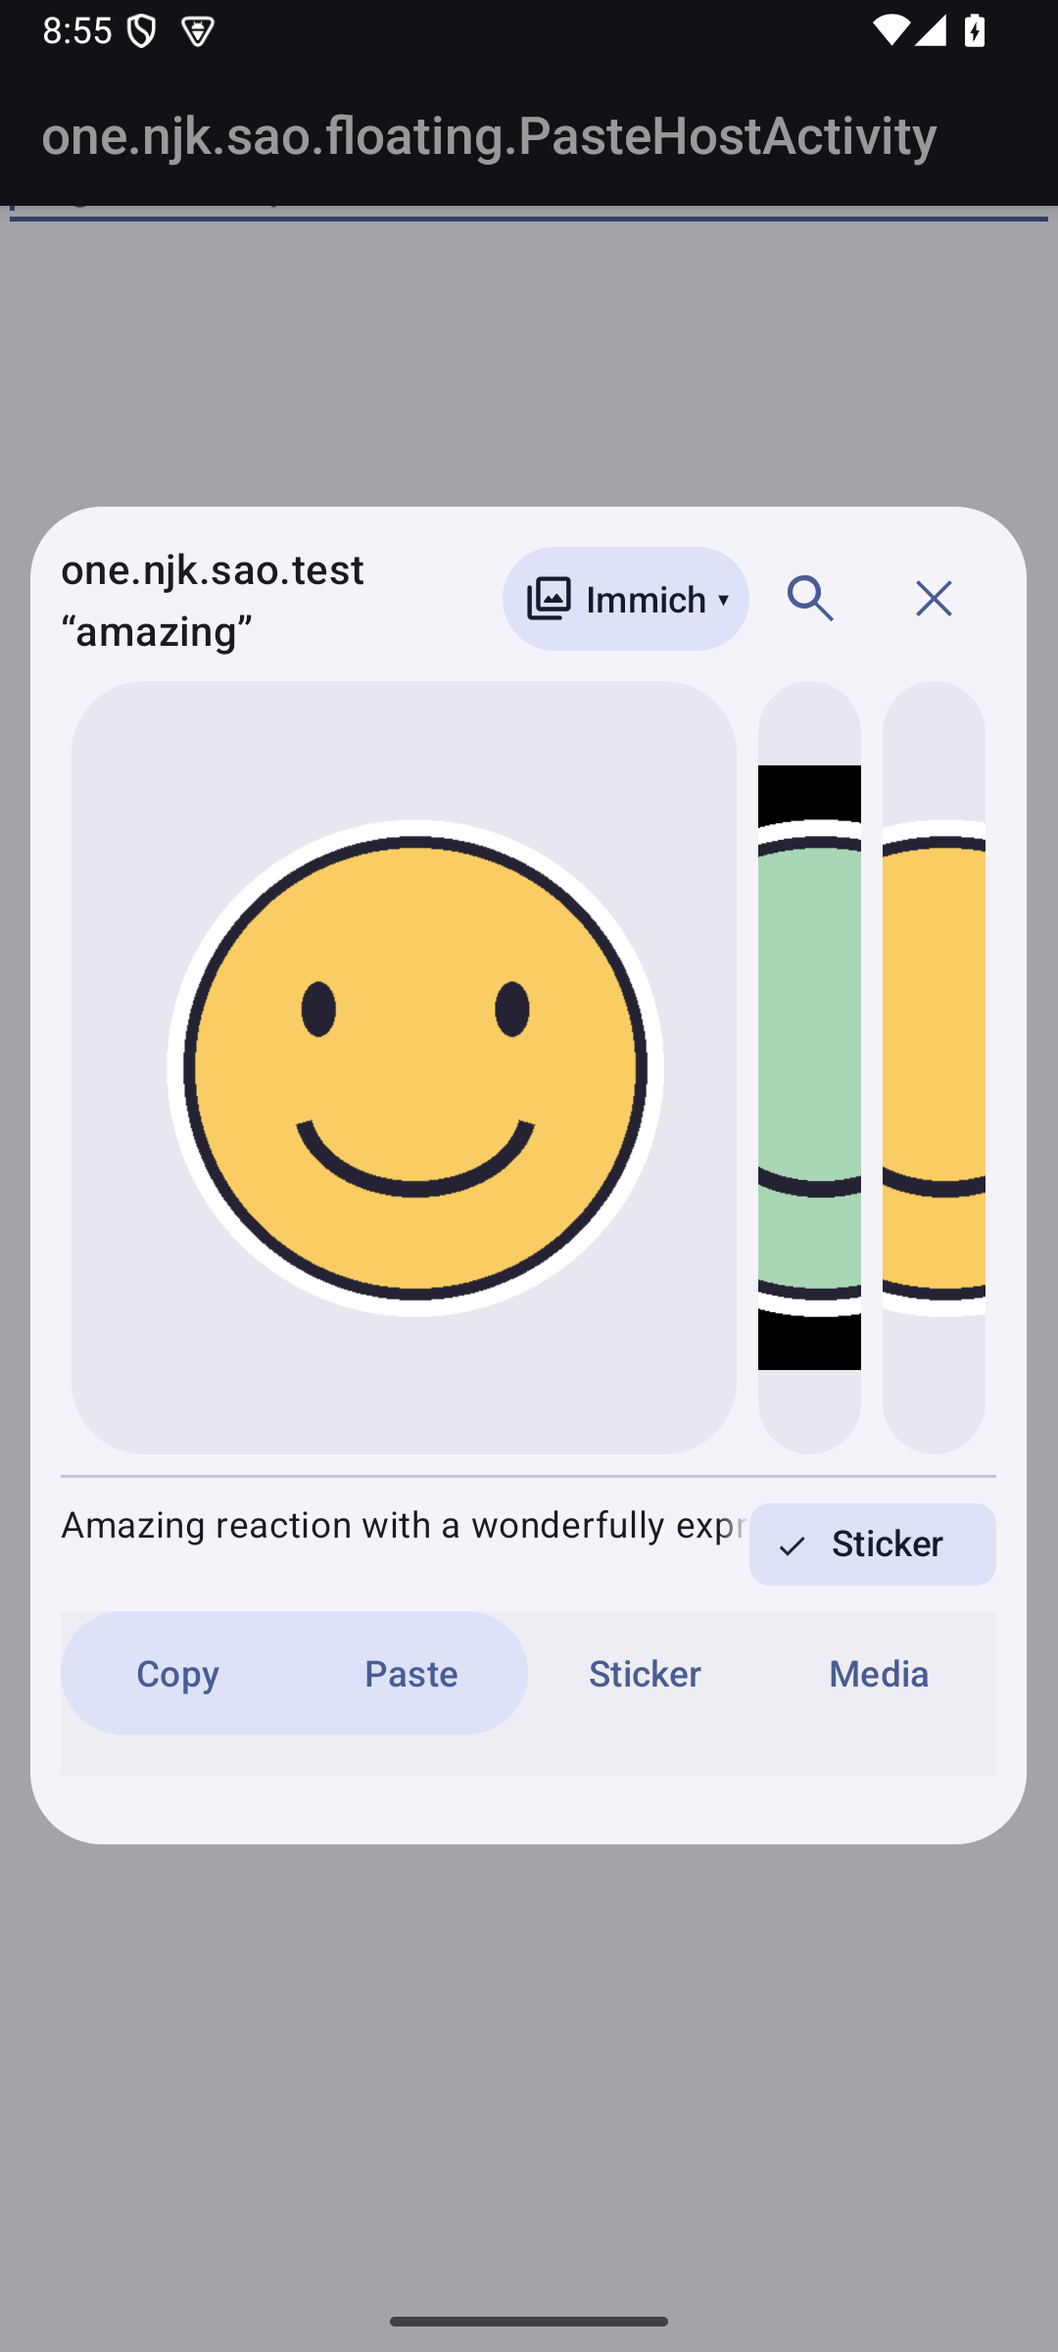
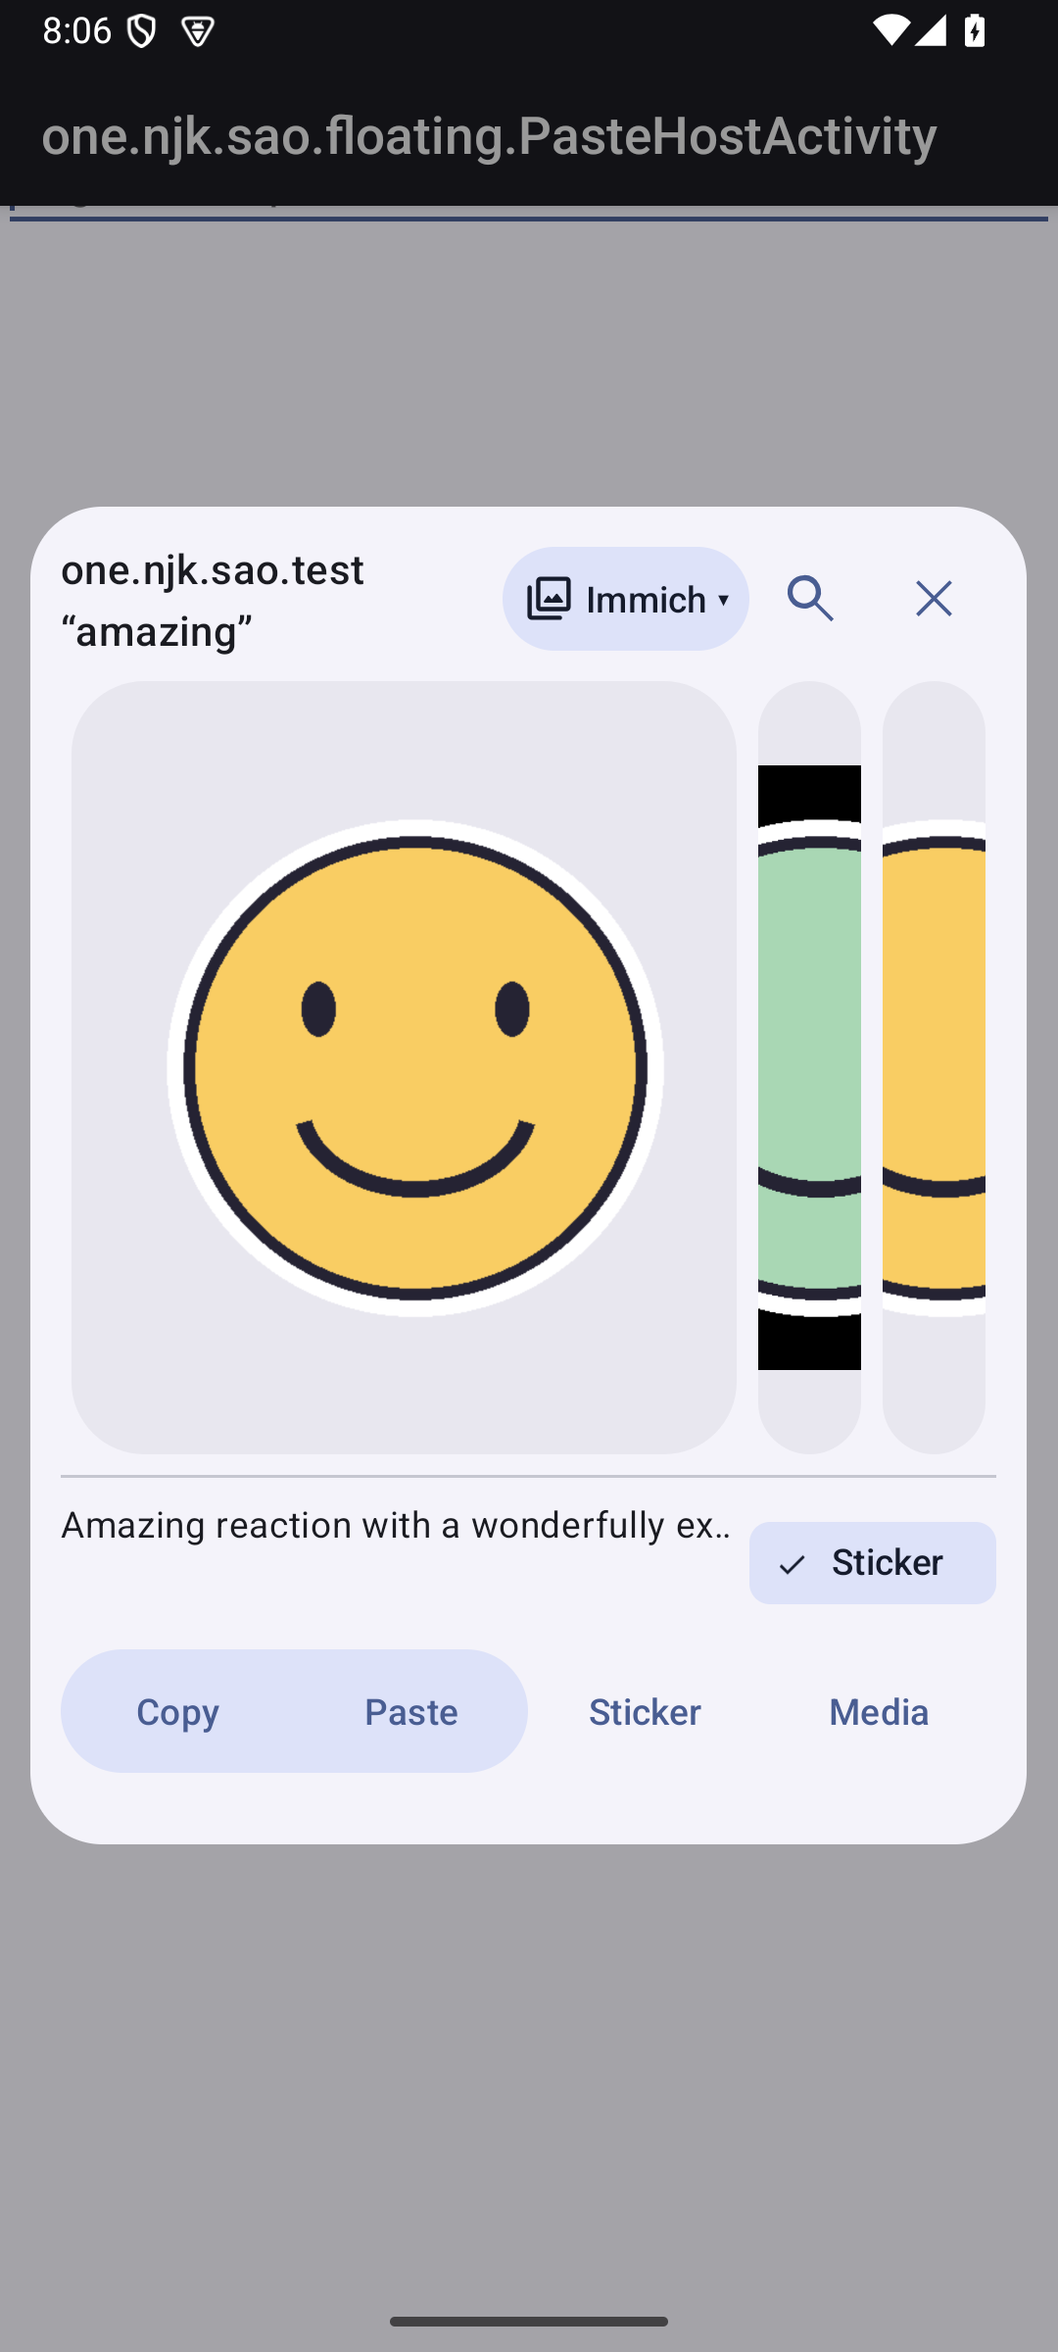
fix: polish picker dock text and search controls

diff --git a/app/src/androidTest/java/one/njk/sao/floating/FloatingDeviceTest.kt b/app/src/androidTest/java/one/njk/sao/floating/FloatingDeviceTest.kt
@@ -160,6 +160,66 @@ class FloatingDeviceTest {
         }
     }
 
+    @Test fun searchSelectsTheWholeQueryAndLuckyHasContrastInBothThemes() = runBlocking {
+        val access = dagger.hilt.EntryPoints.get(app.applicationContext, FloatingTestAccess::class.java)
+        val previousSource = access.sources().current()
+        val previousNightMode = androidx.appcompat.app.AppCompatDelegate.getDefaultNightMode()
+        try {
+            access.sources().select(null)
+            for ((label, mode) in listOf("light" to androidx.appcompat.app.AppCompatDelegate.MODE_NIGHT_NO,
+                "dark" to androidx.appcompat.app.AppCompatDelegate.MODE_NIGHT_YES)) {
+                instrumentation.runOnMainSync { androidx.appcompat.app.AppCompatDelegate.setDefaultNightMode(mode) }
+                ActivityScenario.launch<PickerActivity>(PickerActivity.intent(app, null, null)).use { scenario ->
+                    scenario.onActivity { activity ->
+                        activity.findViewById<android.view.View>(R.id.search_toggle).performClick()
+                        activity.findViewById<android.widget.EditText>(R.id.search).apply {
+                            setText("happy 😂")
+                            onEditorAction(android.view.inputmethod.EditorInfo.IME_ACTION_SEARCH)
+                        }
+                    }
+                    var ready = false
+                    val deadline = SystemClock.elapsedRealtime() + 5_000
+                    while (!ready && SystemClock.elapsedRealtime() < deadline) {
+                        scenario.onActivity { activity ->
+                            ready = !activity.findViewById<android.view.View>(R.id.search_field).isShown &&
+                                activity.findViewById<com.google.android.material.chip.Chip>(R.id.search_lucky).isEnabled
+                        }
+                        SystemClock.sleep(40)
+                    }
+                    assertTrue(ready)
+                    scenario.onActivity { it.findViewById<android.view.View>(R.id.search_toggle).performClick() }
+                    SystemClock.sleep(600) // Also check selection after the IME opens.
+                    scenario.onActivity { activity ->
+                        val search = activity.findViewById<android.widget.EditText>(R.id.search)
+                        assertTrue(search.hasFocus())
+                        assertEquals(0, search.selectionStart)
+                        assertEquals(search.text.length, search.selectionEnd)
+                        val lucky = activity.findViewById<com.google.android.material.chip.Chip>(R.id.search_lucky)
+                        assertTrue("Lucky must be visible in $label mode", lucky.isShown)
+                        val tint = lucky.chipIconTint!!.getColorForState(lucky.drawableState, Color.TRANSPARENT)
+                        val surface = com.google.android.material.color.MaterialColors.getColor(lucky,
+                            com.google.android.material.R.attr.colorSurfaceContainerLow)
+                        assertTrue("Lucky's icon needs 3:1 contrast in $label mode",
+                            androidx.core.graphics.ColorUtils.calculateContrast(tint, surface) >= 3.0)
+                    }
+                    if (InstrumentationRegistry.getArguments().containsKey("dockShots")) {
+                        SystemClock.sleep(1_000) // Let the async preview and keyboard finish presenting.
+                        val bitmap = instrumentation.uiAutomation.takeScreenshot()
+                        java.io.File(app.filesDir, "search-selected-$label.png").outputStream().use {
+                            bitmap.compress(android.graphics.Bitmap.CompressFormat.PNG, 100, it)
+                        }
+                        bitmap.recycle()
+                    }
+                    instrumentation.sendStringSync("love")
+                    scenario.onActivity { assertEquals("love", it.findViewById<android.widget.EditText>(R.id.search).text.toString()) }
+                }
+            }
+        } finally {
+            instrumentation.runOnMainSync { androidx.appcompat.app.AppCompatDelegate.setDefaultNightMode(previousNightMode) }
+            access.sources().restore(previousSource); access.browseSession().reset()
+        }
+    }
+
     @Test fun userStartedBubbleHidesForThePickerAndStopsOnHold() {
         fun shell(command: String) {
             instrumentation.uiAutomation.executeShellCommand(command).use { descriptor ->

diff --git a/app/src/main/java/one/njk/sao/floating/PickerActivity.kt b/app/src/main/java/one/njk/sao/floating/PickerActivity.kt
@@ -48,6 +48,7 @@ class PickerActivity : AppCompatActivity() {
     private lateinit var sourceGesture: HoldDragSelector<SourceGestureChoice>
     private var imeHeight = 0
     private lateinit var binding: ActivityPickerBinding
+    private lateinit var dockMarquees: PickerMarquees
     private lateinit var resultsCarousel: PickerCarousel
     private lateinit var sequenceCarousel: PickerCarousel
     private val carousel get() = if (renderedSequence == null) resultsCarousel else sequenceCarousel
@@ -81,6 +82,7 @@ class PickerActivity : AppCompatActivity() {
         readContext()
         binding = ActivityPickerBinding.inflate(layoutInflater)
         setContentView(binding.root)
+        dockMarquees = PickerMarquees(lifecycleScope, binding.selectionTitle, binding.selectionStatus, binding.capabilityHint)
         window.setLayout(-1, -1)
         metrics = windowManager.maximumWindowMetrics
         binding.root.setOnClickListener { finish() }
@@ -287,6 +289,7 @@ class PickerActivity : AppCompatActivity() {
     override fun onStart() {
         super.onStart()
         dockMarquee(true)
+        binding.root.post { dockMarquees.refresh() }
         model.pickerVisible(!isFinishing)
         refreshCapability()
         updatePlayback()
@@ -314,9 +317,7 @@ class PickerActivity : AppCompatActivity() {
         super.onConfigurationChanged(newConfig); metrics = windowManager.maximumWindowMetrics; resize(0)
     }
     private fun recordFocus() = carousel.recordFocus()
-    private fun dockMarquee(active: Boolean) {
-        listOf(binding.selectionTitle, binding.selectionStatus, binding.capabilityHint).forEach { it.isSelected = active }
-    }
+    internal fun dockMarquee(active: Boolean) = dockMarquees.setEnabled(active)
     private fun updateHintVisibility() {
         // Invisible reserves one font-scaled line; only a different UI mode removes the row.
         binding.capabilityHint.visibility = when {
@@ -324,6 +325,7 @@ class PickerActivity : AppCompatActivity() {
             binding.capabilityHint.text.isEmpty() -> View.INVISIBLE
             else -> View.VISIBLE
         }
+        dockMarquees.refresh()
     }
     private fun centerChanged() {
         val mime = carousel.centeredItem?.mimeType
@@ -364,7 +366,7 @@ class PickerActivity : AppCompatActivity() {
         showSource(false); showTargets(false); binding.sourceToggle.isVisible = false
         editing = true; binding.targetLabel.isVisible = false; binding.searchField.isVisible = true
         renderHeader(); resize(imeHeight)
-        binding.search.requestFocus(); binding.search.setSelection(binding.search.text?.length ?: 0)
+        binding.search.requestFocus(); binding.search.selectAll()
         WindowCompat.getInsetsController(window, binding.search).show(WindowInsetsCompat.Type.ime())
     }
     private fun collapseSearch() {
@@ -435,8 +437,8 @@ class PickerActivity : AppCompatActivity() {
         val title = item?.title ?: getString(R.string.picker_choose)
         val status = if (item == null || model.selection.value?.id != item.id || model.copyStatus.value == R.string.picker_choose)
             "" else getString(model.copyStatus.value)
-        if (binding.selectionTitle.text.toString() != title) binding.selectionTitle.text = title
-        if (binding.selectionStatus.text.toString() != status) binding.selectionStatus.text = status
+        dockMarquees.text(binding.selectionTitle, title)
+        dockMarquees.text(binding.selectionStatus, status)
         binding.selectionTitle.contentDescription = title
         binding.selectionStatus.contentDescription = status
         binding.copyAction.isEnabled = item != null && !busy
@@ -475,7 +477,7 @@ class PickerActivity : AppCompatActivity() {
             !binding.pasteAction.isEnabled -> getString(R.string.picker_assist_hint)
             else -> ""
         }
-        if (binding.capabilityHint.text.toString() != hint) binding.capabilityHint.text = hint
+        dockMarquees.text(binding.capabilityHint, hint)
         updateHintVisibility()
         if (target != MessagingTarget.OTHER && binding.targetList.isVisible) showTargets(false)
         updateActionAccessibility()

diff --git a/app/src/androidTest/java/one/njk/sao/floating/PasteAssistDeviceTest.kt b/app/src/androidTest/java/one/njk/sao/floating/PasteAssistDeviceTest.kt
@@ -253,7 +253,6 @@ class PasteAssistDeviceTest {
                 // A running marquee is deliberately not idle; dispatch on Main without waiting for it.
                 fun onPicker(action: (PickerActivity) -> Unit) = scenario.onMainActivity(action)
                 try {
-                    onPicker { marquees.animate(it) }
                     fun text(id: Int): String {
                         var value = ""; onPicker { value = it.findViewById<android.widget.TextView>(id).text.toString() }; return value
                     }
@@ -316,9 +315,27 @@ class PasteAssistDeviceTest {
                     assertEquals("Copy status must not move the carousel or dock", empty, copied)
                     assertEquals("An appearing tip must not move the carousel or dock", empty, motion)
                     assertEquals(1, searches.size); assertEquals("amazing", searches.single().getString("query"))
+                    onPicker { activity ->
+                        val title = activity.findViewById<View>(one.njk.sao.R.id.selection_title)
+                        val hint = activity.findViewById<View>(one.njk.sao.R.id.capability_hint)
+                        val dock = activity.findViewById<View>(one.njk.sao.R.id.dock_surface)
+                        assertSame("The tip belongs below the title", title.parent, hint.parent)
+                        assertTrue(title.bottom <= hint.top)
+                        val background = dock.background as com.google.android.material.shape.MaterialShapeDrawable
+                        assertEquals("The toolbar must not tint the panel behind the buttons", 0,
+                            android.graphics.Color.alpha(background.fillColor!!.defaultColor))
+                        marquees.animate(activity)
+                    }
                     val titleBefore = pixels(one.njk.sao.R.id.selection_title)
                     val tipBefore = pixels(one.njk.sao.R.id.capability_hint)
-                    SystemClock.sleep(1800)
+                    SystemClock.sleep(1_000)
+                    val titlePaused = pixels(one.njk.sao.R.id.selection_title)
+                    val tipPaused = pixels(one.njk.sao.R.id.capability_hint)
+                    try {
+                        assertTrue("The title must stay still for a reading pause", titleBefore.sameAs(titlePaused))
+                        assertTrue("The tip must stay still for a reading pause", tipBefore.sameAs(tipPaused))
+                    } finally { titlePaused.recycle(); tipPaused.recycle() }
+                    SystemClock.sleep(1_000)
                     screenshot("scrolling")
                     val titleAfter = pixels(one.njk.sao.R.id.selection_title)
                     val tipAfter = pixels(one.njk.sao.R.id.capability_hint)

diff --git a/app/src/androidTest/java/one/njk/sao/floating/AnimatedActivityScenario.kt b/app/src/androidTest/java/one/njk/sao/floating/AnimatedActivityScenario.kt
@@ -9,7 +9,6 @@ import androidx.test.runner.lifecycle.Stage
 import org.junit.rules.TestRule
 import org.junit.runner.Description
 import org.junit.runners.model.Statement
-import one.njk.sao.R
 
 /** Marquees stay animated. Use ActivityScenario's Main branch without waiting for global idleness. */
 internal fun <A : Activity> ActivityScenario<A>.onMainActivity(action: (A) -> Unit) {
@@ -18,16 +17,12 @@ internal fun <A : Activity> ActivityScenario<A>.onMainActivity(action: (A) -> Un
 
 /** ActivityScenario also waits for idle on launch/close. Visual tests explicitly resume marquee. */
 class PickerMarqueeRule : TestRule {
-    private fun selected(activity: PickerActivity, active: Boolean) {
-        for (id in listOf(R.id.selection_title, R.id.selection_status, R.id.capability_hint))
-            activity.findViewById<android.widget.TextView>(id).isSelected = active
-    }
-    fun animate(activity: PickerActivity) = selected(activity, true)
+    fun animate(activity: PickerActivity) = activity.dockMarquee(true)
     override fun apply(base: Statement, description: Description) = object : Statement() {
         override fun evaluate() {
             val monitor = ActivityLifecycleMonitorRegistry.getInstance()
             val callback = ActivityLifecycleCallback { activity, stage ->
-                if (activity is PickerActivity && stage == Stage.RESUMED) selected(activity, false)
+                if (activity is PickerActivity && stage == Stage.RESUMED) activity.dockMarquee(false)
             }
             val instrumentation = InstrumentationRegistry.getInstrumentation()
             instrumentation.runOnMainSync { monitor.addLifecycleCallback(callback) }

diff --git a/app/src/main/java/one/njk/sao/floating/PickerMarquees.kt b/app/src/main/java/one/njk/sao/floating/PickerMarquees.kt
@@ -1,0 +1,42 @@
+package one.njk.sao.floating
+
+import android.widget.TextView
+import kotlinx.coroutines.CoroutineScope
+import kotlinx.coroutines.Job
+import kotlinx.coroutines.delay
+import kotlinx.coroutines.launch
+
+/** Main-thread, lifecycle-owned reading pause for each changing dock label. */
+internal class PickerMarquees(private val scope: CoroutineScope, vararg views: TextView) {
+    private class Label(val view: TextView) {
+        var pending: Job? = null
+        fun reset() {
+            pending?.cancel(); pending = null
+            view.isSelected = false
+        }
+    }
+    private val labels = views.map(::Label)
+    private var enabled = false
+
+    fun setEnabled(value: Boolean) {
+        if (enabled == value) return
+        enabled = value
+        refresh()
+    }
+
+    fun text(view: TextView, value: String) {
+        if (view.text.toString() == value) return
+        labels.first { it.view === view }.reset()
+        view.text = value
+    }
+
+    fun refresh() {
+        for (label in labels) {
+            if (!enabled || !label.view.isShown || label.view.text.isEmpty()) label.reset()
+            else if (label.pending == null) label.pending = scope.launch {
+                delay(1_500)
+                if (enabled && label.view.isShown) label.view.isSelected = true
+            }
+        }
+    }
+}

diff --git a/app/src/androidTest/java/one/njk/sao/floating/FloatingSettingsDeviceTest.kt b/app/src/androidTest/java/one/njk/sao/floating/FloatingSettingsDeviceTest.kt
@@ -106,9 +106,13 @@ class FloatingSettingsDeviceTest {
                         ready = activity.findViewById<Chip>(R.id.auto_hide)?.let { !it.isChecked && it.text == activity.getString(R.string.disabled) } == true
                         assertNotNull(activity.findViewById<View>(R.id.nsfw_toggle))
                         assertNotNull(activity.findViewById<View>(R.id.overlay_permission))
+                        assertEquals(activity.getString(R.string.floating_settings_accessibility_description),
+                            activity.findViewById<TextView>(R.id.accessibility_description).text.toString())
                     }
                     ready
                 }
+                onView(withId(R.id.accessibility_description)).perform(scrollTo())
+                if (InstrumentationRegistry.getArguments().containsKey("dockShots")) screenshot("inline-settings-accessibility.png")
                 onView(withId(R.id.auto_hide)).perform(scrollTo(), click())
                 await("Inline dim toggle must persist") { runBlocking { preferences.current().autoHide } }
                 onView(withId(R.id.delay_five)).perform(scrollTo(), click())

diff --git a/docs/discord-apk-analysis.md b/docs/discord-apk-analysis.md
@@ -91,6 +91,18 @@ result path or reliable current-channel capture plus the targeted share route. N
 has been implemented or validated in an authenticated client. The API-102 SAO bridge now also scopes Discord for native PNG/JPEG/GIF
 draft insertion. Native video insertion remains unimplemented.
 
+## Native stickers (2026-10-16)
+
+Discord's message API sends stickers using existing `sticker_ids`; a file attachment is a
+separate field. Those IDs can refer to custom server stickers as well as Discord's standard
+stickers. Custom server stickers must first be uploaded into Discord, and using them in DMs
+requires Nitro. Pasting a local PNG/WebP/GIF through the clipboard or native receive-content
+handler stages an attachment; it does not register or send a native sticker. SAO therefore
+keeps its Sticker action disabled for Discord, including with Vector enabled.
+
+References: [Create Message](https://docs.discord.com/developers/resources/message#create-message),
+[Custom Stickers FAQ](https://support.discord.com/hc/en-us/articles/4403089981975-Custom-Stickers-FAQ).
+
 References: [Google Play](https://play.google.com/store/apps/details?id=com.discord),
 [Android receive-content API](https://developer.android.com/develop/ui/views/receive-rich-content),
 [Android image-keyboard API](https://developer.android.com/develop/ui/views/touch-and-input/image-keyboard),

diff --git a/docs/screenshots/README.md b/docs/screenshots/README.md
@@ -11,3 +11,11 @@ The optional sequence view follows Immich's Photos ordering and labels each card
 | Sequence and upload time | Sequence and shared hold settings |
 | --- | --- |
 | <img src="floating-sequence.png" width="280" alt="Chronological neighbors with upload date and time and a Back to results action" /> | <img src="floating-sequence-settings.png" width="280" alt="Browse sequence toggle and configurable 160 millisecond hold delay" /> |
+
+Dock messages sit below the title and above the action buttons. Text rows reserve space when
+empty; overflowing labels pause for 1.5 seconds before scrolling. Opening search selects the
+whole existing query, and Lucky's icon follows the Material light/dark theme.
+
+| Dock text above actions | Search selection in dark mode | Accessibility instructions |
+| --- | --- | --- |
+| <img src="floating-dock-marquee.png" width="260" alt="Context amazing with a scrolling title and GIF tip above the transparent action dock" /> | <img src="floating-search-dark.png" width="260" alt="Selected text and emoji query with a contrasting Lucky icon in dark mode" /> | <img src="floating-accessibility-settings.png" width="260" alt="Accessibility access description directs users to find Paste assistance in Android settings" /> |
